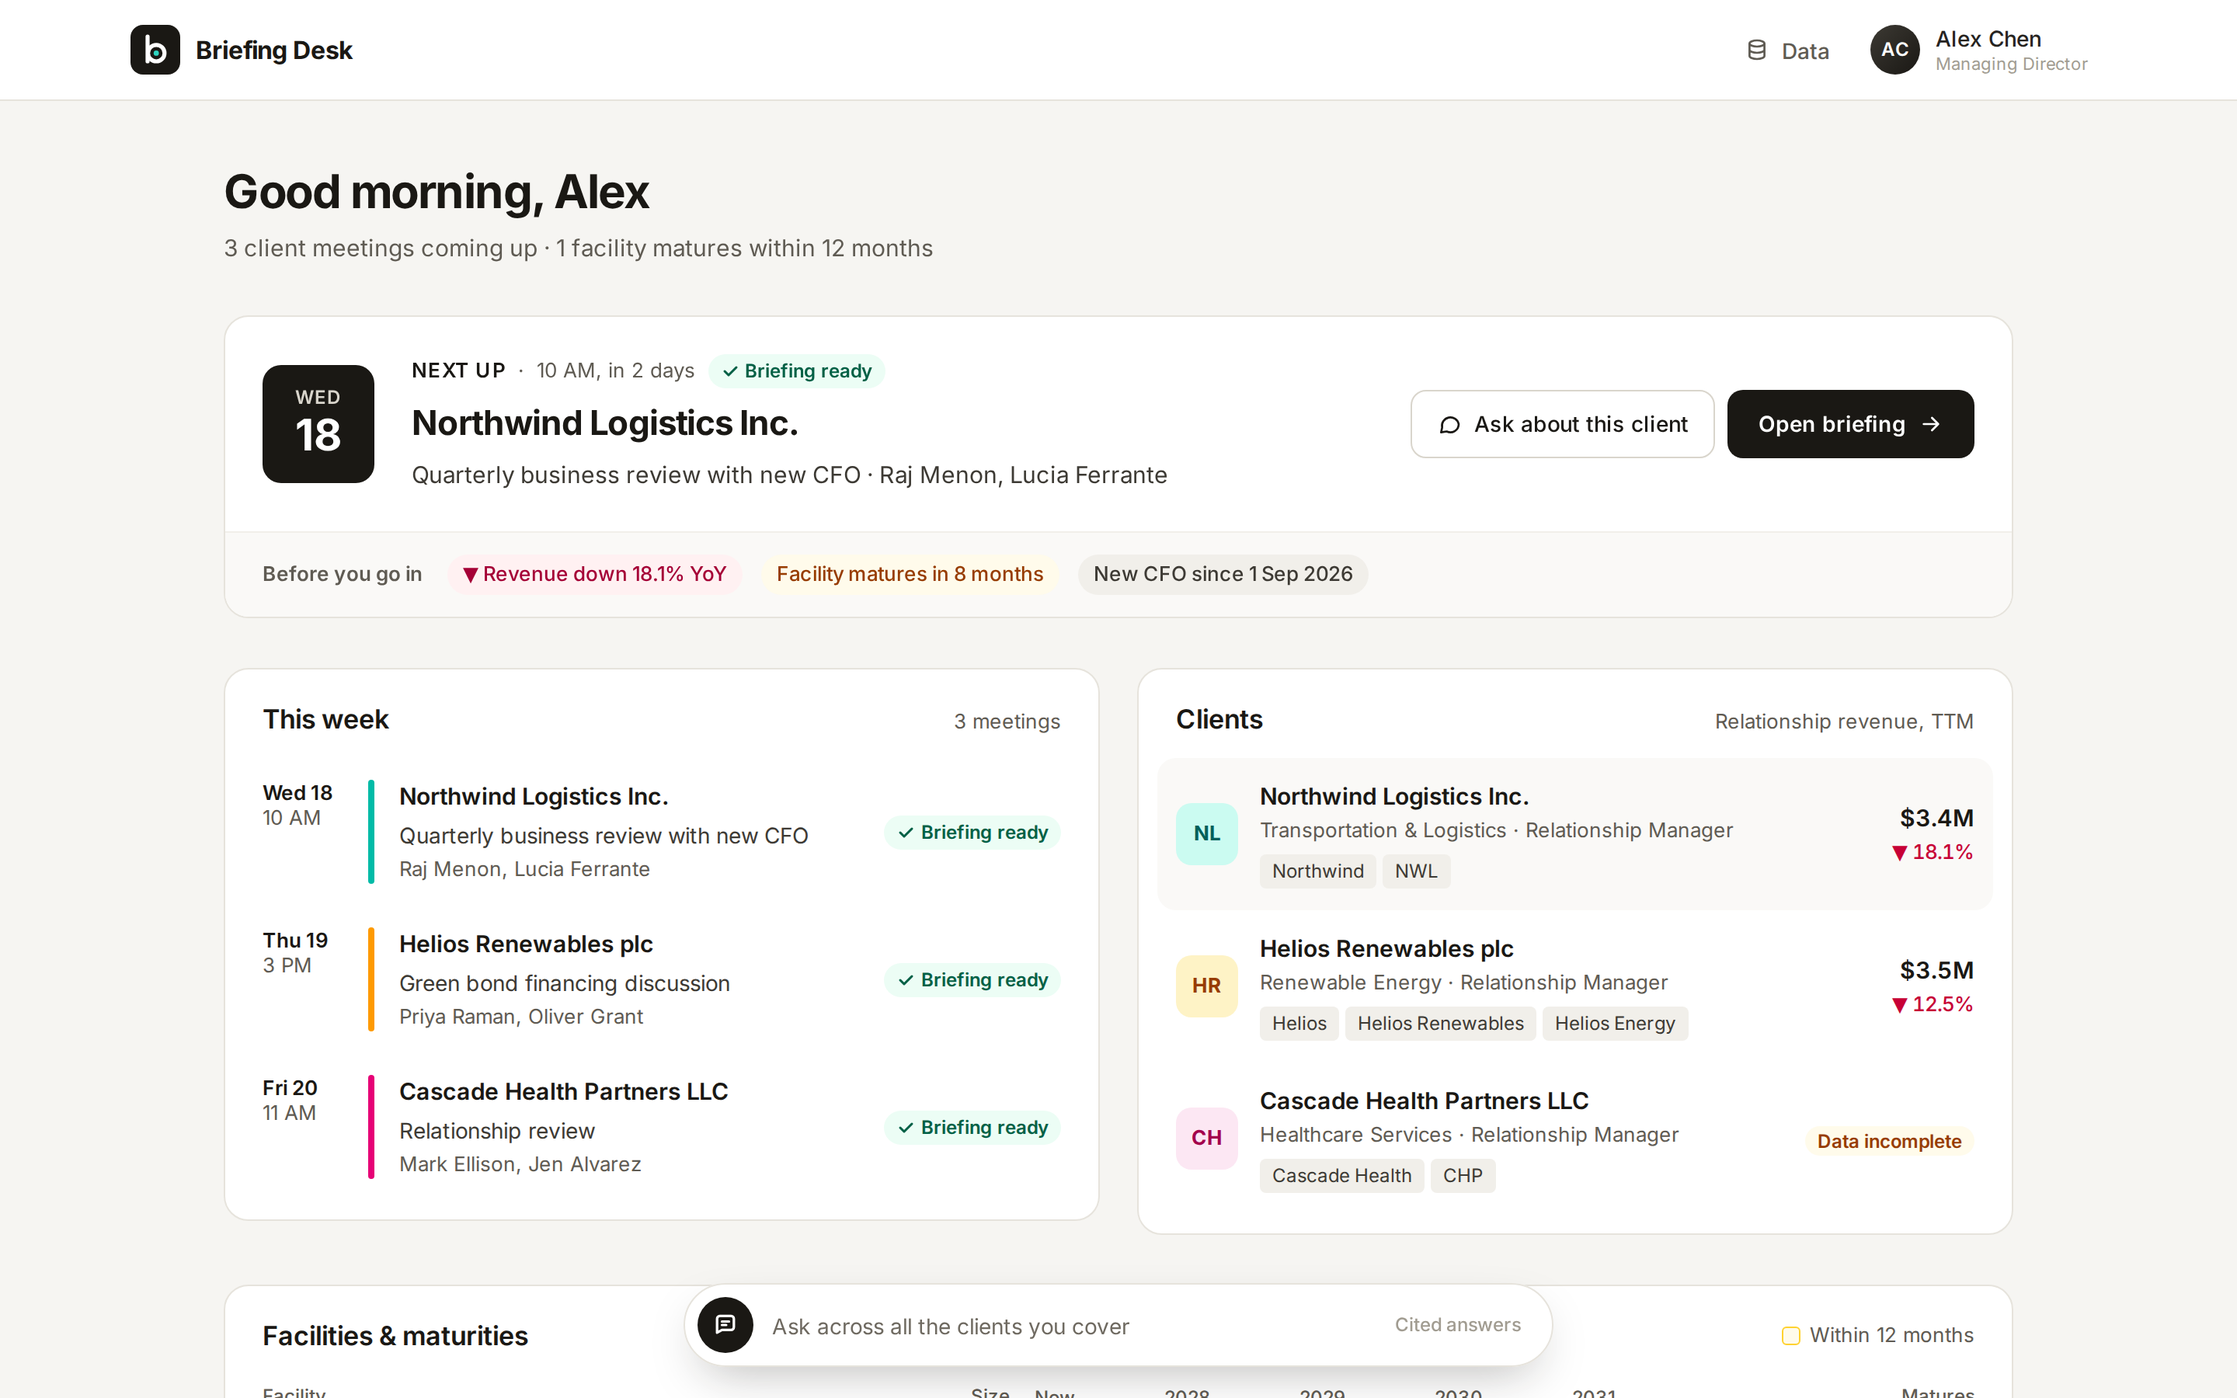
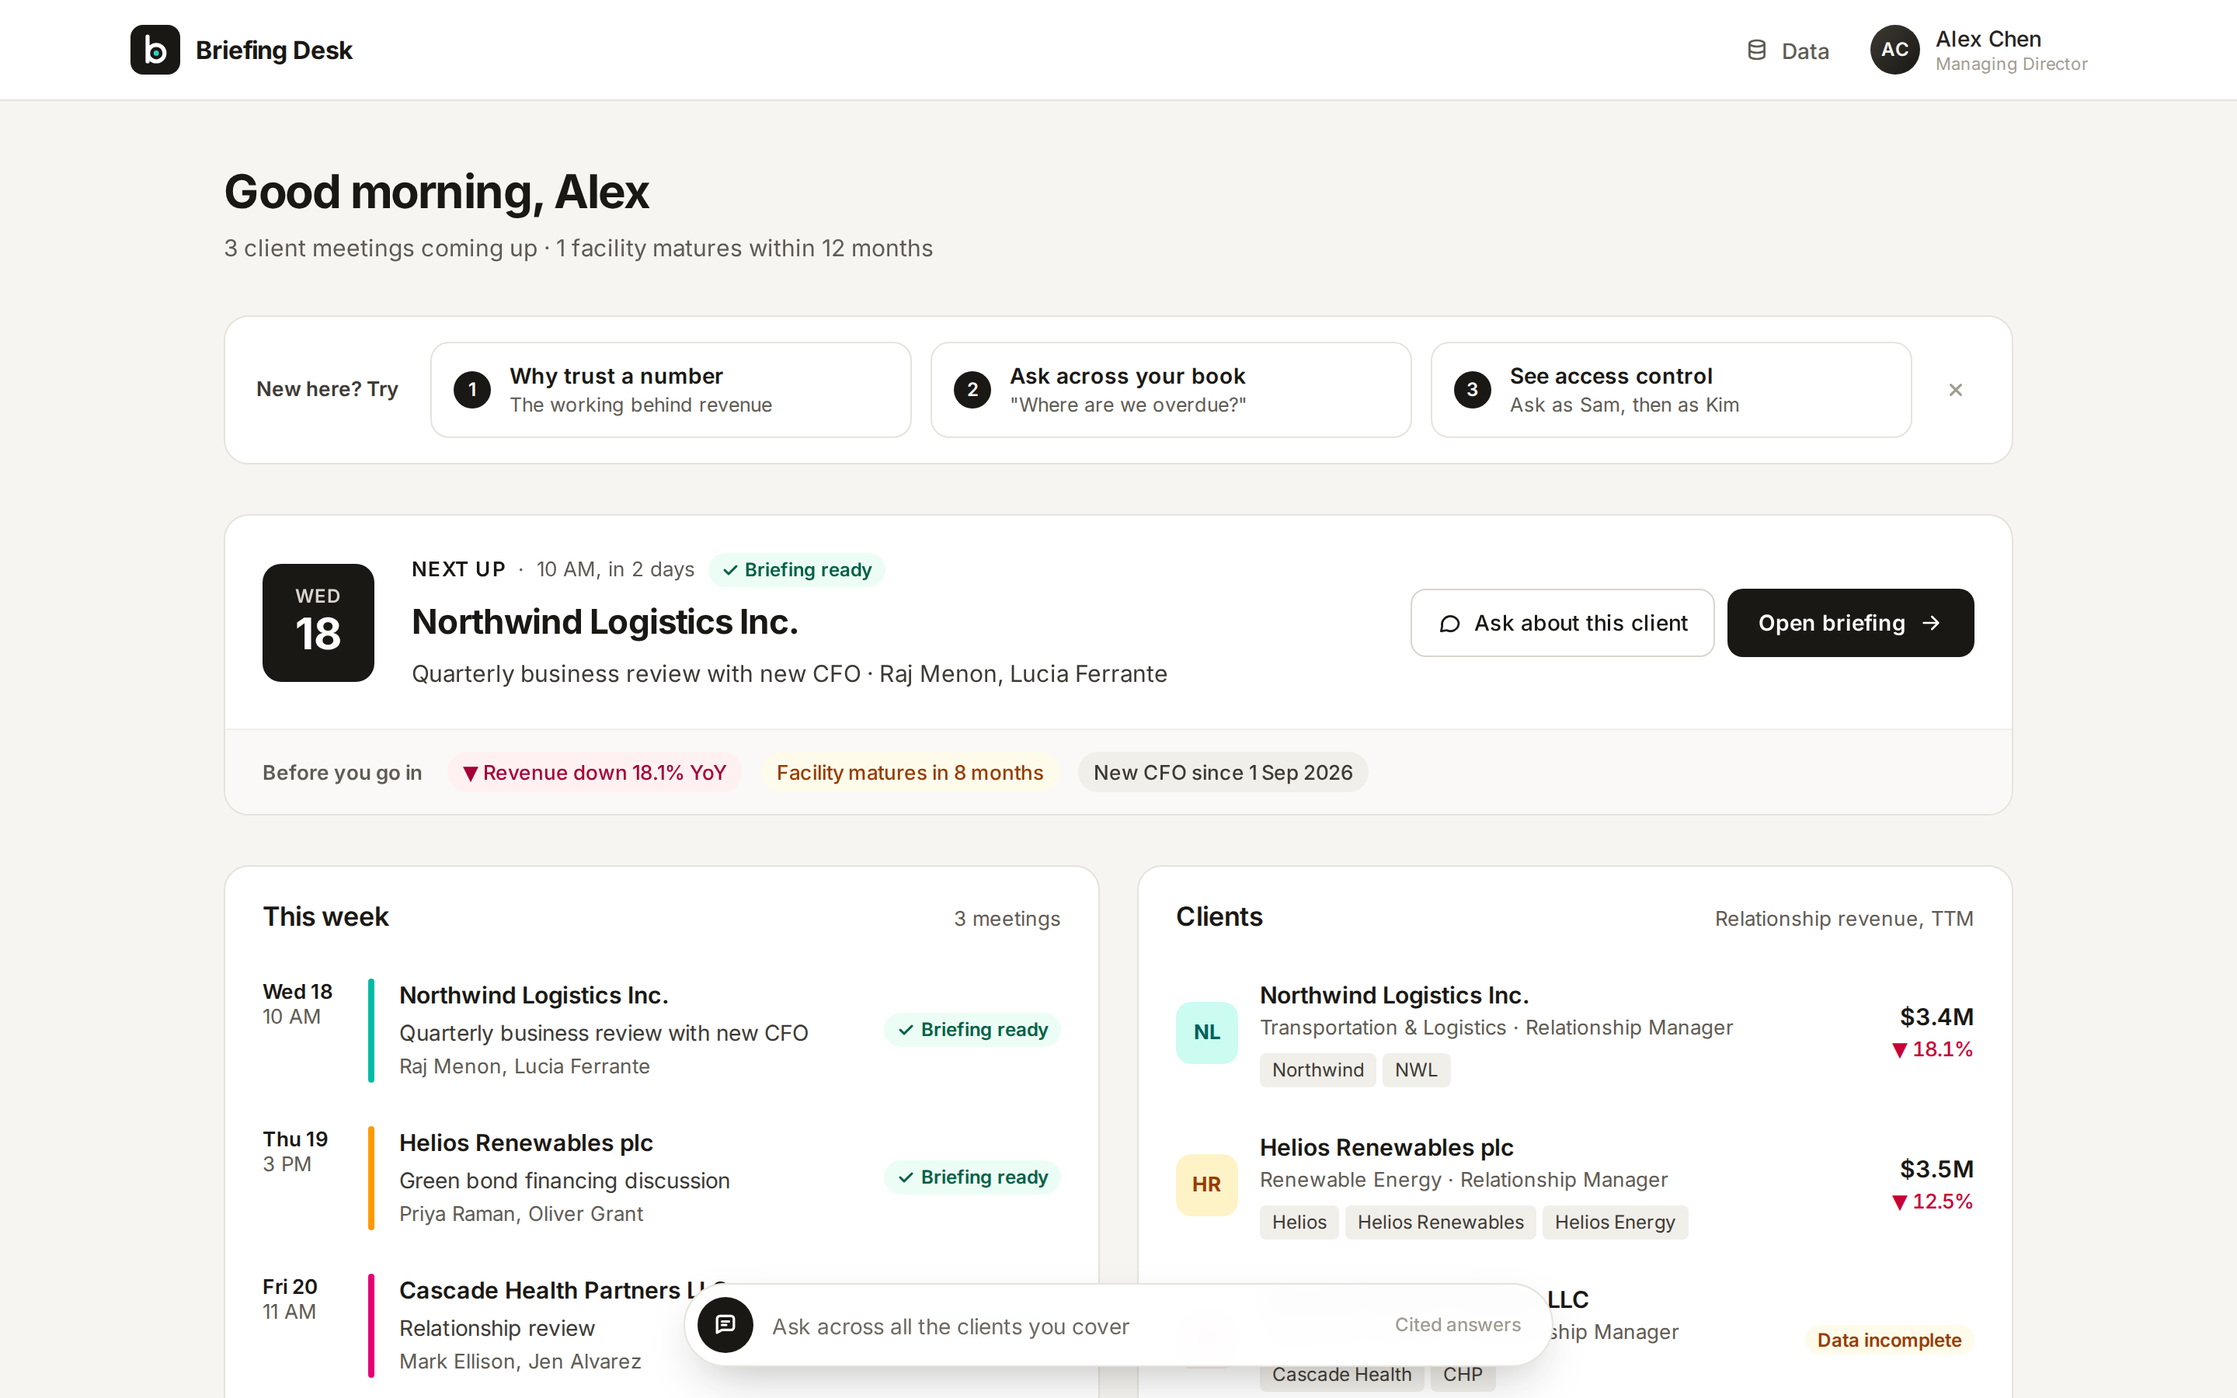
Home: 'New here? Try' card with three one-click starting points; README edits
The card opens the revenue calculation, asks 'Where are we overdue across my
clients?' across the book, and asks about Helios as Sam to compare with Kim.
Each is a direct action, so nothing points at the layout. Dismissible.
README: says sign-in is a demo picker, warns that the evaluation rebuilds the
data (stale banners are expected), mentions the card; Home screenshot retaken.

diff --git a/frontend/src/components/HomeDashboard.tsx b/frontend/src/components/HomeDashboard.tsx
@@ -11,7 +11,12 @@ interface Props {
   onOpenMeeting: (meetingId: string) => void
   onOpenClient: (clientId: string) => void
   onAsk: (clientId: string) => void
+  onTry: (kind: TryKind, clientId: string) => void
 }
+
+export type TryKind = 'calculation' | 'across' | 'access'
+
+const TRY_KEY = 'briefing-desk.try-hidden'
 
 function greeting(): string {
   const h = new Date().getHours()
@@ -32,7 +37,7 @@ function inDays(n: number): string {
 
 const short = (name: string) => name.replace(/ (Inc\.|plc|LLC)$/, '')
 
-export function HomeDashboard({ userId, name, onOpenMeeting, onOpenClient, onAsk }: Props) {
+export function HomeDashboard({ userId, name, onOpenMeeting, onOpenClient, onAsk, onTry }: Props) {
   const [data, setData] = useState<HomeData | null>(null)
 
   useEffect(() => {
@@ -60,6 +65,8 @@ export function HomeDashboard({ userId, name, onOpenMeeting, onOpenClient, onAsk
           {soon > 0 && ` · ${soon} ${soon === 1 ? 'facility matures' : 'facilities mature'} within 12 months`}
         </p>
       </div>
+
+      <TryCard clientId={next?.client_id ?? data.companies[0]?.client_id} onTry={onTry} />
 
       {next && <NextUp data={data} onOpenMeeting={onOpenMeeting} onAsk={onAsk} />}
 
@@ -361,5 +368,60 @@ function ReadyPill({ ready }: { ready: boolean }) {
     <span className="inline-flex h-[22px] items-center rounded-full bg-slate-100 px-2 text-[12px] font-medium text-slate-600">
       Not prepared
     </span>
+  )
+}
+
+/** Three one-click starting points for someone exploring alone. Each step is a direct action (open a
+ * page, ask a question), so nothing points at the layout and nothing can misfire. Dismissible. */
+function TryCard({ clientId, onTry }: { clientId?: string; onTry: Props['onTry'] }) {
+  const [hidden, setHidden] = useState(() => {
+    try {
+      return localStorage.getItem(TRY_KEY) === '1'
+    } catch {
+      return false
+    }
+  })
+  if (hidden || !clientId) return null
+  const steps: { kind: TryKind; title: string; detail: string }[] = [
+    { kind: 'calculation', title: 'Why trust a number', detail: 'The working behind revenue' },
+    { kind: 'across', title: 'Ask across your book', detail: '"Where are we overdue?"' },
+    { kind: 'access', title: 'See access control', detail: 'Ask as Sam, then as Kim' },
+  ]
+  return (
+    <section aria-label="Things to try" className={cn(CARD, 'rise flex flex-wrap items-center gap-3 px-5 py-4')}>
+      <p className="w-full text-[13px] font-semibold text-slate-700 sm:w-auto sm:pr-2">New here? Try</p>
+      {steps.map((s, i) => (
+        <button
+          key={s.kind}
+          onClick={() => onTry(s.kind, clientId)}
+          className="flex min-w-0 flex-1 basis-[220px] items-center gap-3 rounded-xl border border-slate-200 px-3.5 py-2.5 text-left transition hover:border-slate-400 hover:bg-slate-50"
+        >
+          <span className="grid h-6 w-6 shrink-0 place-items-center rounded-full bg-slate-900 text-[12px] font-semibold text-white">
+            {i + 1}
+          </span>
+          <span className="min-w-0">
+            <span className="block text-[14px] font-semibold">{s.title}</span>
+            <span className="block truncate text-[12.5px] text-slate-600">{s.detail}</span>
+          </span>
+        </button>
+      ))}
+      <button
+        onClick={() => {
+          setHidden(true)
+          try {
+            localStorage.setItem(TRY_KEY, '1')
+          } catch {
+            // storage unavailable: hidden for this visit only
+          }
+        }}
+        aria-label="Hide suggestions"
+        title="Hide"
+        className="grid h-8 w-8 shrink-0 place-items-center rounded-full text-slate-400 transition hover:bg-slate-100 hover:text-slate-700"
+      >
+        <svg viewBox="0 0 20 20" className="h-4 w-4" fill="none" stroke="currentColor" strokeWidth="2" aria-hidden="true">
+          <path d="M6 6l8 8M14 6l-8 8" strokeLinecap="round" />
+        </svg>
+      </button>
+    </section>
   )
 }

diff --git a/frontend/src/App.tsx b/frontend/src/App.tsx
@@ -2,13 +2,13 @@
 import { useCallback, useEffect, useRef, useState } from 'react'
 import { ApiError, api, type ClientAction, type HistoryItem, type Meeting, type User } from './api'
 import { AttentionPanel, originOf, type ActionState } from './components/AttentionPanel'
-import { ChatWidget } from './components/ChatWidget'
+import { ALL, ChatWidget } from './components/ChatWidget'
 import { HistoryMenu } from './components/HistoryMenu'
 import { ContactsExhibit, PipelineExhibit, RevenueExhibit } from './components/Exhibits'
 import { BriefingIndex, FIGURES_ANCHOR } from './components/BriefingIndex'
 import { ClientPage } from './components/ClientPage'
 import { DataPage } from './components/DataPage'
-import { HomeDashboard } from './components/HomeDashboard'
+import { HomeDashboard, type TryKind } from './components/HomeDashboard'
 import { KeyFigures } from './components/KeyFigures'
 import { NotesCapture } from './components/NotesCapture'
 import { SectionCard, type RejectReason, type Review } from './components/SectionCard'
@@ -88,6 +88,8 @@ export default function App() {
   const [drawer, setDrawer] = useState<Citation | null>(null)
   const [chatOpen, setChatOpen] = useState(false)
   const [chatClient, setChatClient] = useState<string | null>(null) // client asked about from Home
+  const [chatPrompt, setChatPrompt] = useState<{ question: string; scope: string; id: number } | null>(null)
+  const [openRevenue, setOpenRevenue] = useState(false) // client page opens on its revenue calculation
   const [history, setHistory] = useState<HistoryItem[]>([])
   const [copied, setCopied] = useState(false)
   const closeStream = useRef<(() => void) | null>(null)
@@ -204,8 +206,21 @@ export default function App() {
     setChatOpen(true)
   }
 
+  /** The Home "try" card: each step is a direct action, so it works whatever is on screen. */
+  function tryIt(kind: TryKind, clientId: string) {
+    if (kind === 'calculation') {
+      openClient(clientId, true)
+    } else if (kind === 'across') {
+      setChatPrompt({ question: 'Where are we overdue across my clients?', scope: ALL, id: Date.now() })
+    } else {
+      setUserId('sam') // an analyst without the Aurora clearance; the same question as Kim shows the difference
+      setChatPrompt({ question: 'Is Helios selling any assets or wind portfolios?', scope: 'C-002', id: Date.now() })
+    }
+  }
+
   /** UI-14: a client opens its own page (the whole relationship), not its next meeting. */
-  function openClient(clientId: string) {
+  function openClient(clientId: string, withRevenue = false) {
+    setOpenRevenue(withRevenue)
     window.history.pushState({ clientId }, '', `#/client/${clientId}`)
     closeStream.current?.()
     setMeeting(null)
@@ -369,6 +384,7 @@ export default function App() {
               if (m) openMeeting(m)
             }}
             onAsk={askAbout}
+            openRevenue={openRevenue}
           />
         )}
 
@@ -380,8 +396,9 @@ export default function App() {
               const m = meetings.find((x) => x.meeting_id === id)
               if (m) openMeeting(m)
             }}
-            onOpenClient={openClient}
+            onOpenClient={(id) => openClient(id)}
             onAsk={askAbout}
+            onTry={tryIt}
           />
         )}
 
@@ -478,6 +495,7 @@ export default function App() {
         open={chatOpen}
         onOpenChange={setChatOpen}
         onCite={setDrawer}
+        prompt={chatPrompt}
       />
 
       {drawer && <SourceDrawer citation={drawer} userId={userId} onClose={() => setDrawer(null)} />}

diff --git a/frontend/src/components/ChatWidget.tsx b/frontend/src/components/ChatWidget.tsx
@@ -7,7 +7,7 @@ import type { Citation } from '../types'
 import { ClaimText, VerificationTag } from './SectionCard'
 import { cn, readable } from './ui'
 
-const ALL = '*' // scope: every client the viewer covers (agentic search, API-20)
+export const ALL = '*' // scope: every client the viewer covers (agentic search, API-20)
 
 const ALL_SUGGESTIONS = [
   'Which client has a term loan?',
@@ -31,9 +31,10 @@ interface Props {
   open: boolean // opened by the "Ask about ..." buttons
   onOpenChange: (open: boolean) => void
   onCite: (c: Citation) => void
+  prompt?: { question: string; scope: string; id: number } | null // asked for the user (Home "try" card)
 }
 
-export function ChatWidget({ userId, clients, currentClientId, open, onOpenChange, onCite }: Props) {
+export function ChatWidget({ userId, clients, currentClientId, open, onOpenChange, onCite, prompt }: Props) {
   const setOpen = onOpenChange
   const [clientId, setClientId] = useState<string>(currentClientId ?? ALL)
   const [threads, setThreads] = useState<Record<string, Turn[]>>({})
@@ -88,12 +89,12 @@ export function ChatWidget({ userId, clients, currentClientId, open, onOpenChang
     // eslint-disable-next-line react-hooks/exhaustive-deps
   }, [text, userId])
 
-  async function ask(question: string) {
+  async function ask(question: string, scope?: string) {
     const q = question.trim()
     if (!q || busy) return
     // a client named in the question wins; otherwise the scope chosen (one client, or all of them)
     const named = detected ?? (await clientNamedIn(q))
-    const cid = named?.client_id ?? clientId
+    const cid = named?.client_id ?? scope ?? clientId
     setClientId(cid)
     const id = Date.now()
     const started = performance.now()
@@ -108,6 +109,14 @@ export function ChatWidget({ userId, clients, currentClientId, open, onOpenChang
       update({ error: (e as ApiError).message })
     }
   }
+
+  // a question asked on the user's behalf: open the panel and ask it in the given scope
+  useEffect(() => {
+    if (!prompt) return
+    setOpen(true)
+    ask(prompt.question, prompt.scope)
+    // eslint-disable-next-line react-hooks/exhaustive-deps
+  }, [prompt?.id])
 
   if (!open) {
     // a hovering ask bar at the bottom of every page; the panel opens in the same place

diff --git a/frontend/src/components/ClientPage.tsx b/frontend/src/components/ClientPage.tsx
@@ -14,6 +14,7 @@ interface Props {
   onCite: (c: Citation) => void
   onOpenMeeting: (meetingId: string) => void
   onAsk: (clientId: string) => void
+  openRevenue?: boolean // the Home "try" card: show the revenue calculation straight away
 }
 
 const DOCS_SHOWN = 5 // most recent first; the rest behind "Show all"
@@ -26,7 +27,7 @@ const STAGE: Record<string, string> = {
   stalled: 'bg-amber-50 text-amber-800',
 }
 
-export function ClientPage({ clientId, userId, onCite, onOpenMeeting, onAsk }: Props) {
+export function ClientPage({ clientId, userId, onCite, onOpenMeeting, onAsk, openRevenue }: Props) {
   const [data, setData] = useState<ClientOverview | null>(null)
   const [error, setError] = useState<string | null>(null)
   const [allDocs, setAllDocs] = useState(false)
@@ -34,7 +35,11 @@ export function ClientPage({ clientId, userId, onCite, onOpenMeeting, onAsk }: P
   useEffect(() => {
     setData(null)
     setError(null)
-    api.clientOverview(clientId, userId).then(setData, (e: ApiError) => setError(e.message))
+    api.clientOverview(clientId, userId).then((d) => {
+      setData(d)
+      if (openRevenue && d.revenue.citation) onCite(d.revenue.citation)
+    }, (e: ApiError) => setError(e.message))
+    // eslint-disable-next-line react-hooks/exhaustive-deps
   }, [clientId, userId])
 
   if (error) return <p className="mx-auto mt-10 max-w-3xl rounded-xl bg-rose-50 p-4 text-sm text-rose-700">{error}</p>

diff --git a/README.md b/README.md
@@ -36,7 +36,8 @@ a small local embedding model. Later runs start in seconds.
 
 ## Try it
 
-Sign in with one of three demo profiles. They differ in access, which is the point.
+Sign in with one of three demo profiles. They differ in access, which is the point. (Sign-in is a
+demo picker, not real authentication; see [Known limitations](docs/DESIGN.md#13-known-limitations).)
 
 | Profile | Role | Can see |
 |---|---|---|
@@ -44,14 +45,16 @@ Sign in with one of three demo profiles. They differ in access, which is the poi
 | **Sam Okafor** | Analyst | All three clients, internal documents only |
 | **Kim Laurent** | M&A Director | Helios only, including the restricted Project Aurora deal |
 
-A five-minute tour:
+A five-minute tour (or use the **New here? Try** card on Home, which runs three of these in one click
+each):
 
 1. **As Alex, open Northwind.** The key figure cards appear instantly (computed from the database,
    no model involved). Click **Prepare briefing**: seven sections stream in about 8 seconds.
 2. **Click a small number like ¹** inside a sentence. The source opens with the exact sentence
    highlighted, or the database row itself.
-3. **Look at the prep panel on the right.** Under To do, the overdue proposal is on top. Under Conflicts, "Changed" cards show what the
-   last briefing said ($4.1M and growing, Dana Whitfield as CFO) next to what is true now.
+3. **Look at the prep panel on the right.** Under To do, the overdue proposal is on top. Under
+   Conflicts, "Changed" cards show what the last briefing said ($4.1M and growing, Dana Whitfield as
+   CFO) next to what is true now.
 4. **Click the revenue figure.** The Calculation tab shows the working: the rule, each step of
    arithmetic, the SQL as it ran and the rows used.
 5. **Ask in the bar at the bottom of the page.** "How should I prepare for the Northwind meeting?"
@@ -114,6 +117,9 @@ Rebuilds the data, generates a briefing for every user and client, and checks it
 golden answers and 14 data traps. It prints PASS/FAIL per gate, writes `var/eval/latest.md`, and exits
 non-zero if any release gate fails. Golden facts are graded by a different model from the writer
 (`deepseek-reasoner`) so the grader does not share the writer's blind spots.
+
+The run rebuilds the database, so briefings saved earlier show "Source data changed" until they are
+regenerated. That banner is the staleness check working, not an error.
 
 Latest run (14 briefings, report in [`eval/latest.md`](eval/latest.md)):
 

diff --git a/specs/05-api-ui.md b/specs/05-api-ui.md
@@ -89,6 +89,11 @@ who reviewed it and how many claims were checked and removed.
 chips: revenue trend, a facility maturing within 12 months, new key contacts); This week (meetings,
 one colour per client); Clients (revenue TTM and YoY, aliases); Facilities & maturities on a shared
 timeline with the next 12 months shaded. Replaces the meeting sidebar.
+A dismissible "New here? Try" card offers three one-click starting points, each a direct action
+rather than an overlay pointing at the layout:
+- the revenue calculation of the next meeting's client;
+- "Where are we overdue across my clients?" asked in All my clients;
+- the Helios wind-portfolio question asked as Sam, to compare with Kim.
 
 **UI-12 Top bar:** brand (home), a Data link (UI-15) and the profile menu (switch profile, sign out). A
 company search box was tried and removed: the home cards list every covered client, and the chat
